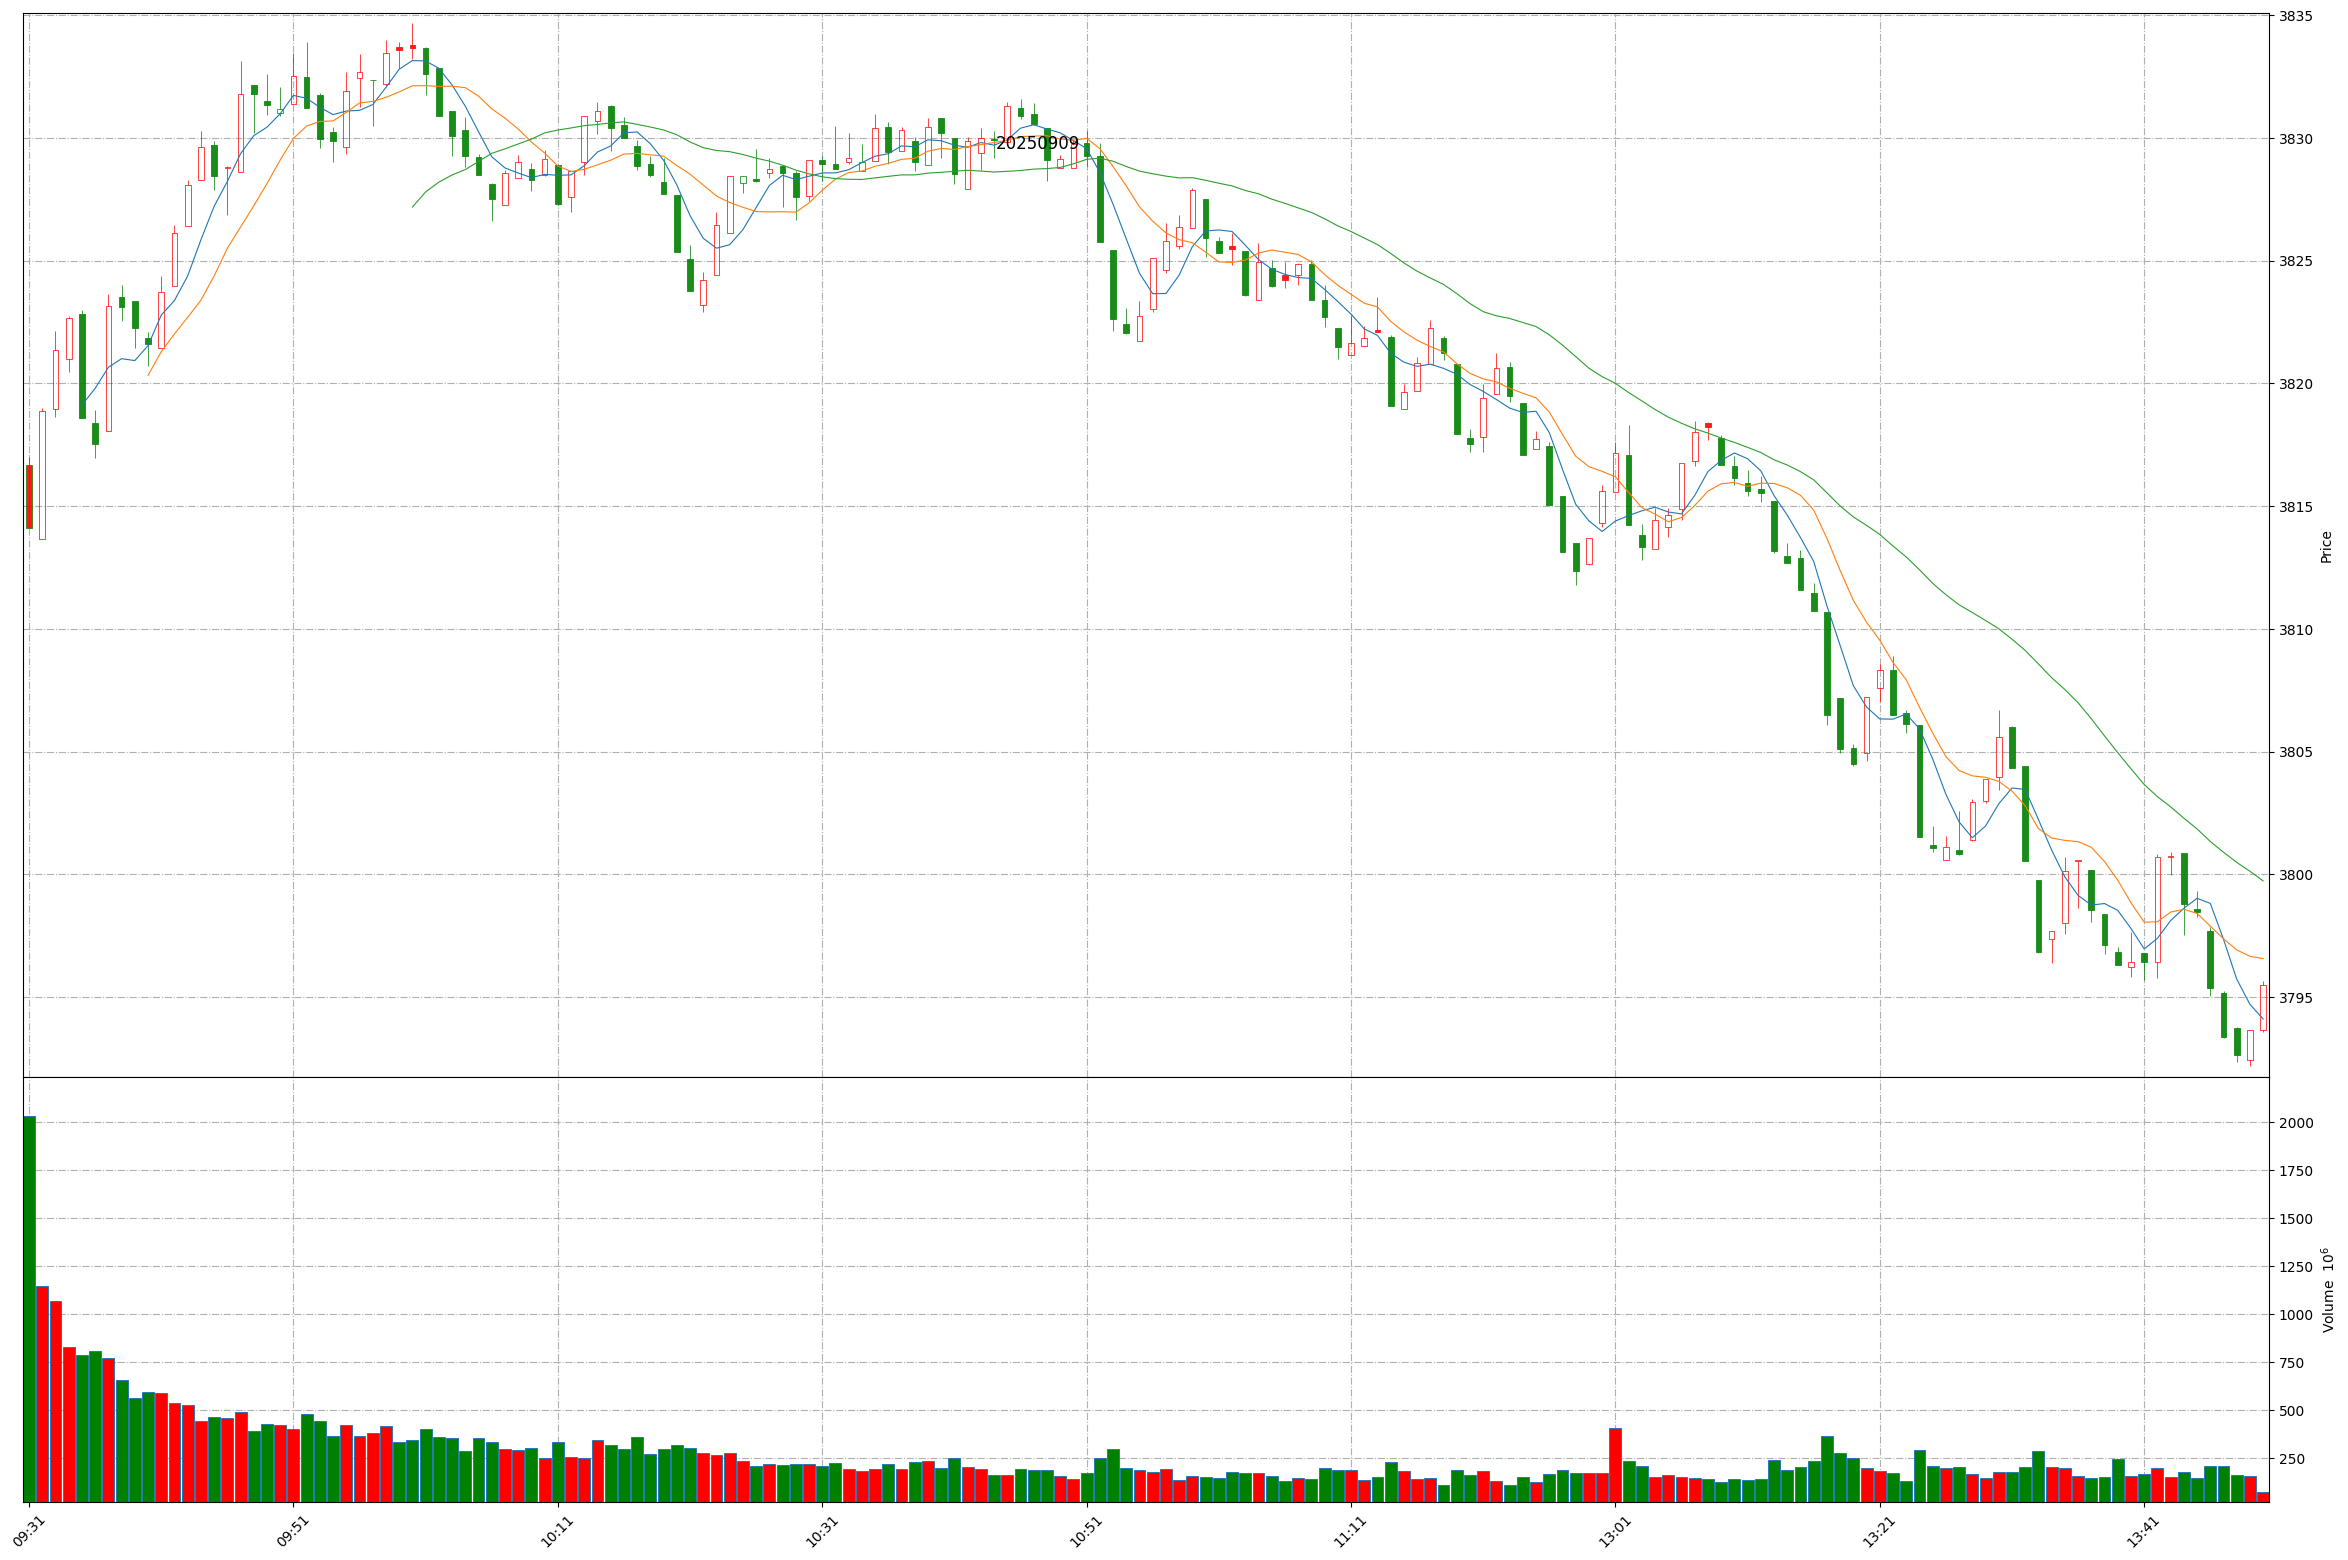
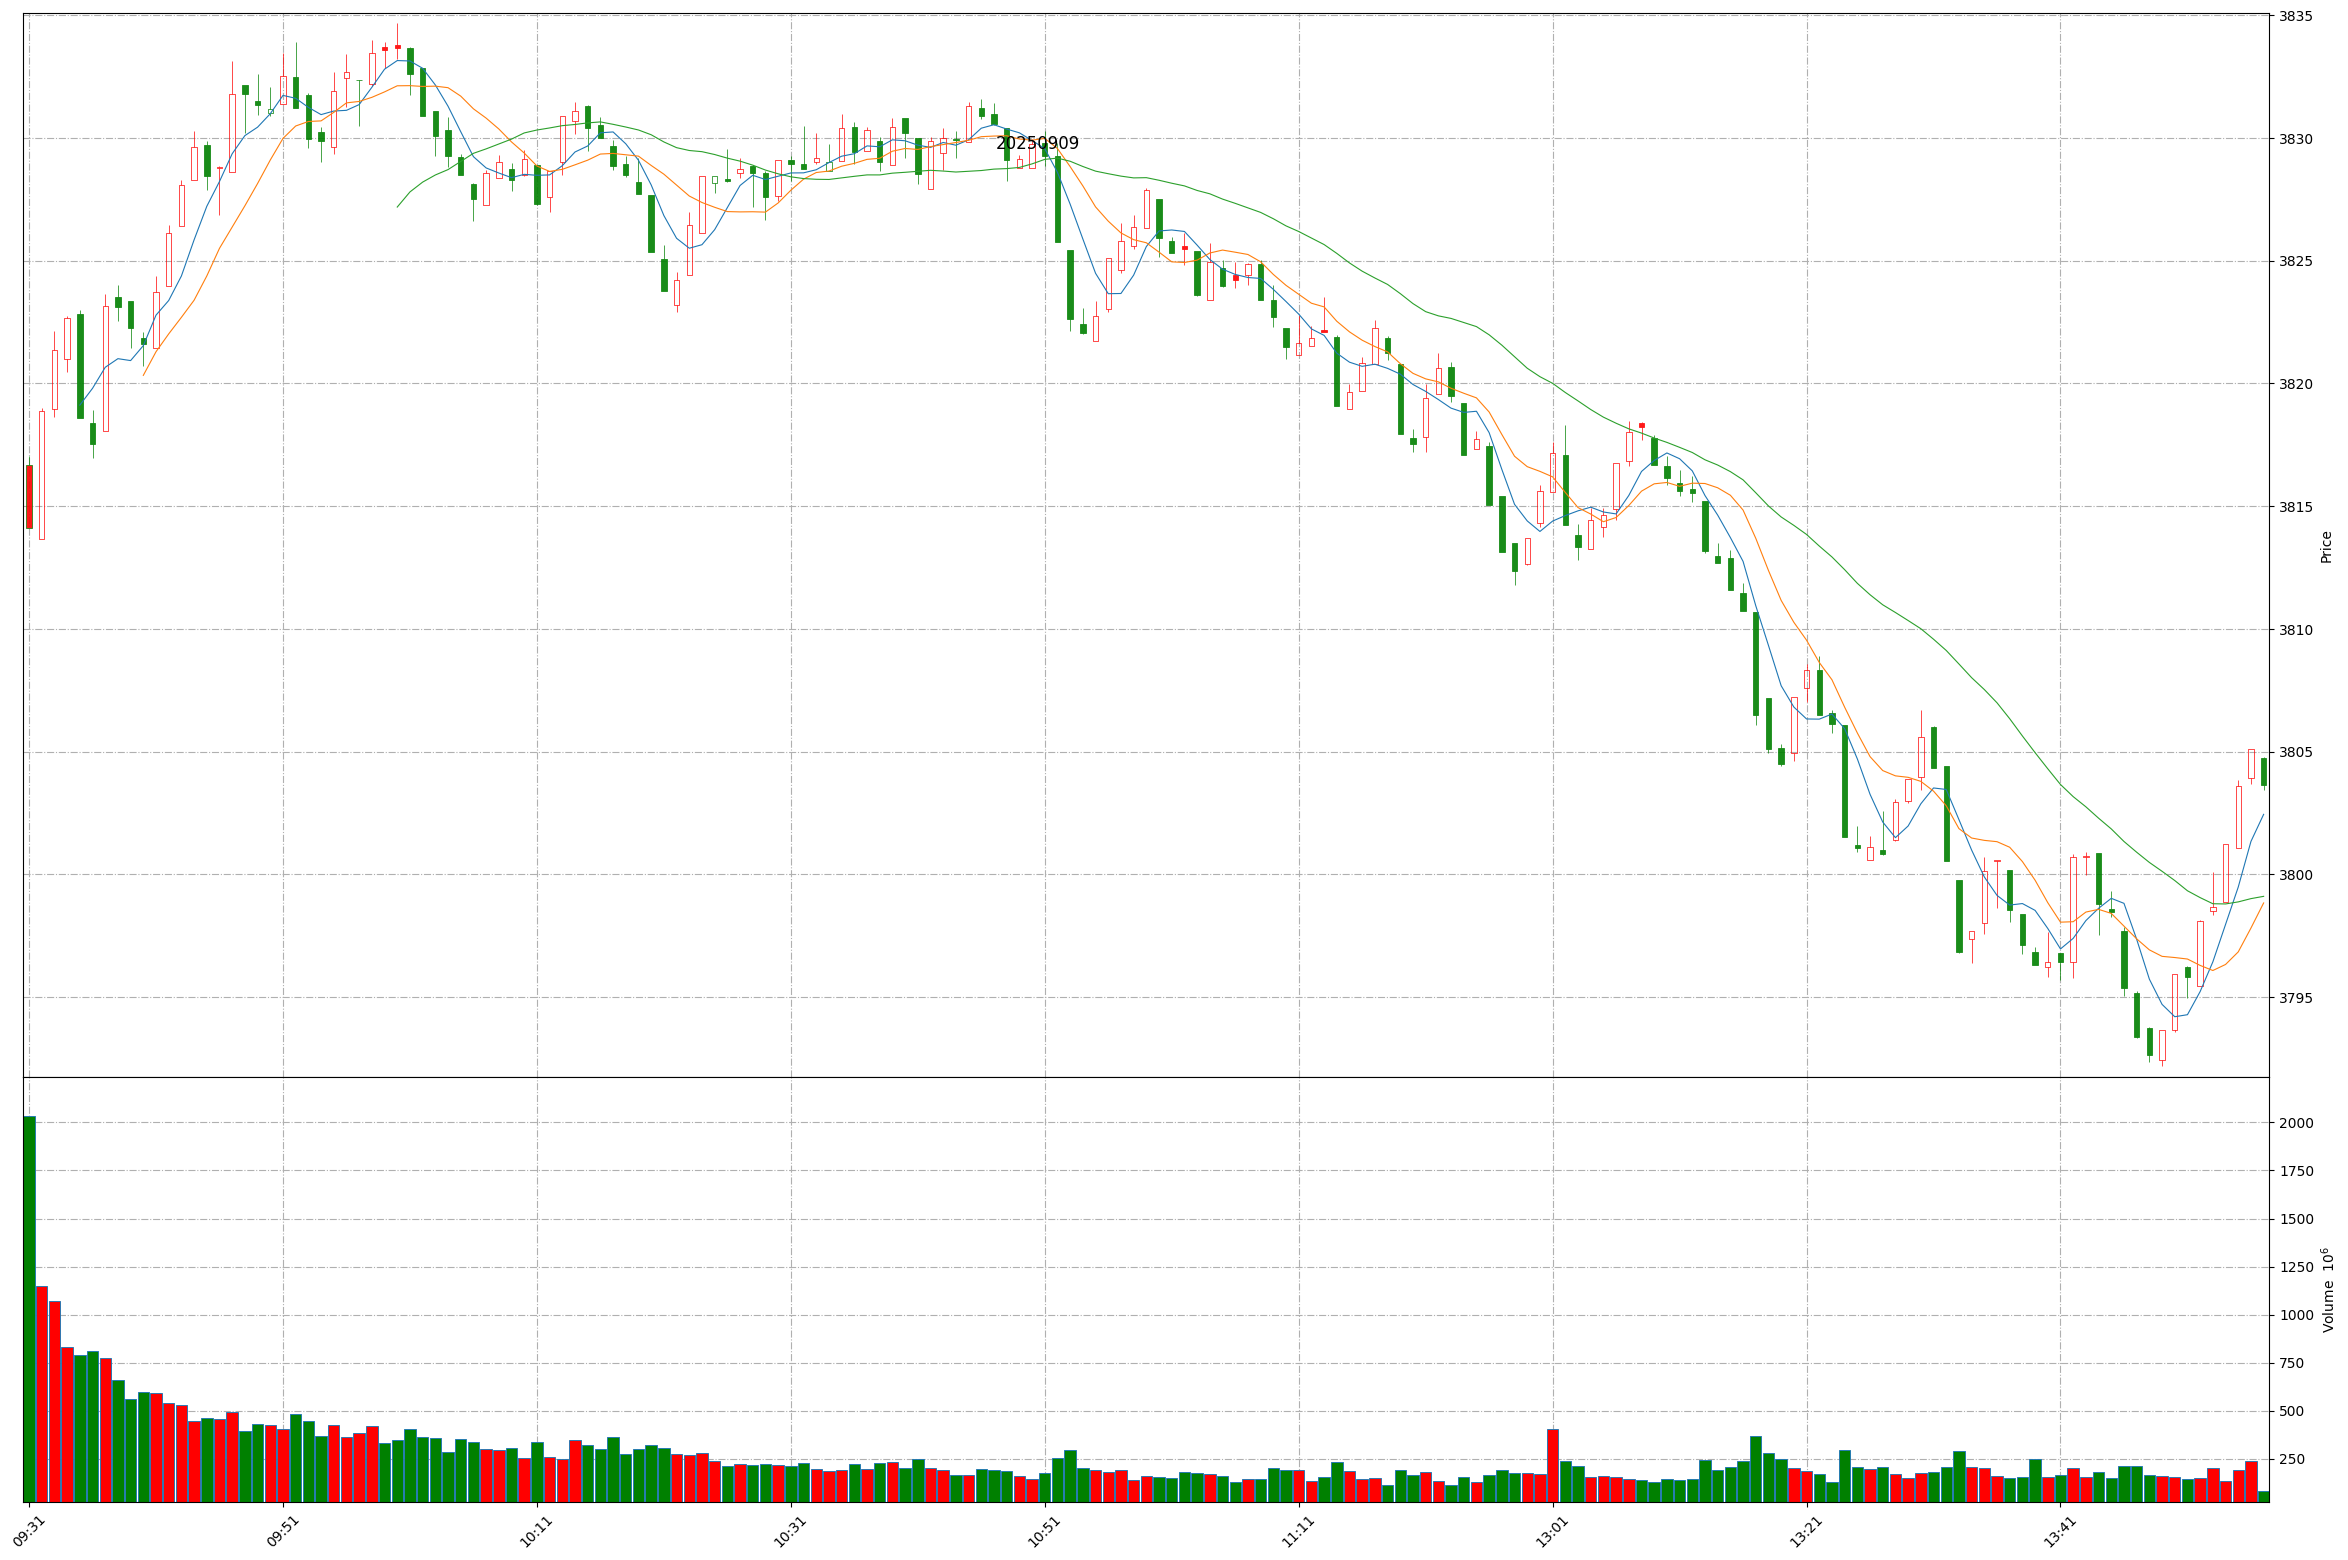
Github action update at 2025-09-09 13:56:57.

Changed region(s): [[0.0311, 0.0308, 0.9638, 0.6769], [0.0311, 0.8615, 0.9638, 0.9846]]

diff --git a/README.md b/README.md
@@ -1,11 +1,11 @@
 
 # Daily-A-share-market-quotes 每日 A 股指数（5min 更新）- 20250909
 
-### 上证指数 20250909 13:49
+### 上证指数 20250909 13:56
 ![](./fig/2025/9/20250909-sh000001.png)
 
-### 深证成指 20250909 13:49
+### 深证成指 20250909 13:56
 ![](./fig/2025/9/20250909-sz399001.png)
 
-### 北证50 20250909 13:49
+### 北证50 20250909 13:56
 ![](./fig/2025/9/20250909-bj899050.png)
